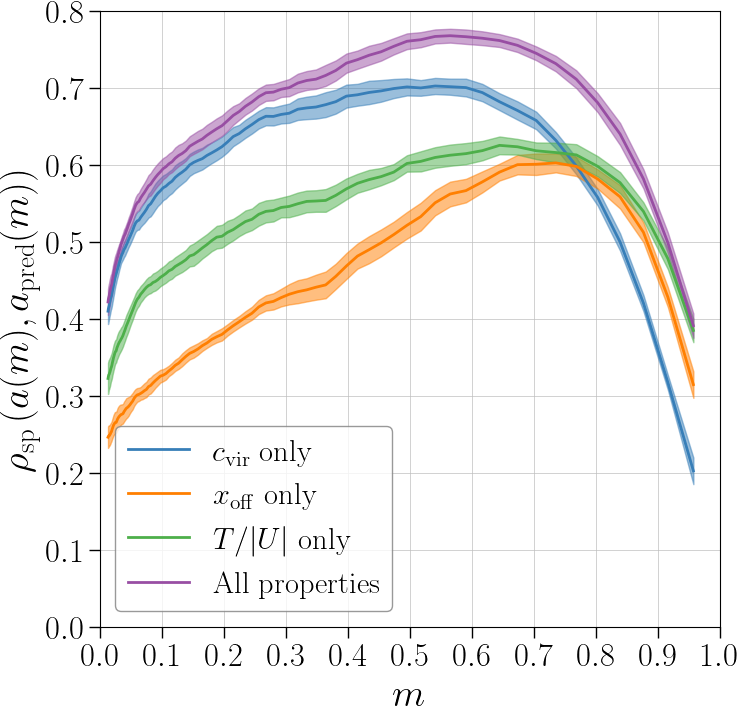
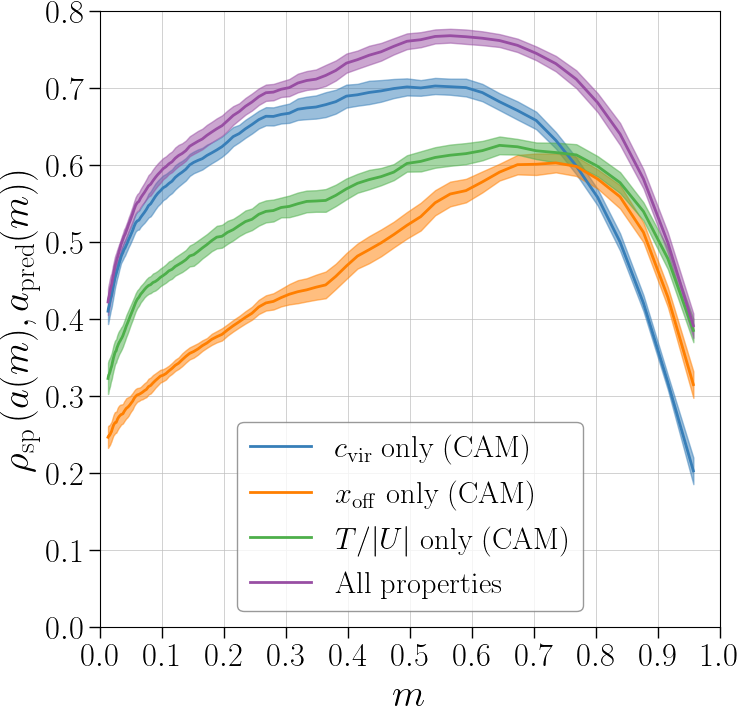
U/im/multicam is cam in 1d (#150)
* notebook demonstrating 1d multicam is cam

* cam clarification in legend

diff --git a/bin/figures.py b/bin/figures.py
@@ -632,9 +632,9 @@ class PredictMAH(Figure):
         corrs_am, errs_am, corrs_ma, errs_ma, mass_bins, scales = data.values()
         mdl_names = list(corrs_am.keys())
         nice_names = [
-            r"\rm $c_{\rm vir}$ only",
-            r"\rm $x_{\rm off}$ only",
-            r"\rm $T / |U|$ only",
+            r"\rm $c_{\rm vir}$ only (CAM)",
+            r"\rm $x_{\rm off}$ only (CAM)",
+            r"\rm $T / |U|$ only (CAM)",
             r"\rm All properties",
         ]
 
@@ -775,9 +775,9 @@ class InvPredMetrics(Figure):
         mdl_names = ["linear_cvir", "linear_x0", "linear_tu", "linear_all"]
         ds_names = ["cvir_only", "x0_only", "tu_only", "all"]
         nice_names = [
-            r"\rm $c_{\rm vir}$ only",
-            r"\rm $x_{\rm off}$ only",
-            r"\rm $T/|U|$ only",
+            r"\rm $c_{\rm vir}$ only (CAM)",
+            r"\rm $x_{\rm off}$ only (CAM)",
+            r"\rm $T/|U|$ only (CAM)",
             r"\rm All parameters",
         ]
 
